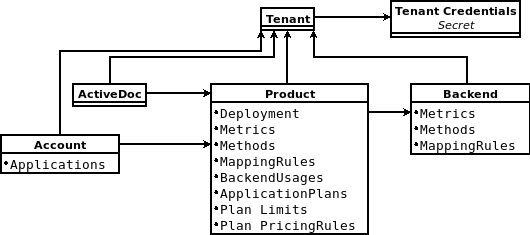
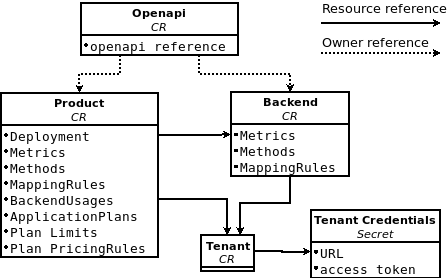
openapi CRD doc

Changed region(s): [[0.0, 0.0, 1.0, 1.0]]

diff --git a/doc/operator-application-capabilities.md b/doc/operator-application-capabilities.md
@@ -35,6 +35,12 @@ The following diagram shows available custom resource definitions and their rela
    * [Product backend usages](#product-backend-usages)
    * [Product custom resource status field](#product-custom-resource-status-field)
    * [Link your 3scale product to your 3scale tenant or provider account](#link-your-3scale-product-to-your-3scale-tenant-or-provider-account)
+* [Openapi custom resource](#openapi-custom-resource)
+   * [Features](#features)
+   * [Configmap OpenAPI spec source](#configmap-openapi-spec-source)
+   * [URL OpenAPI spec source](#url-openapi-spec-source)
+   * [OpenAPI spec source with custom public base URL](#openapi-spec-source-with-custom-public-base-url)
+   * [Link your OpenAPI spec to your 3scale tenant or provider account](#link-your-openapi-spec-to-your-3scale-tenant-or-provider-account)
 * [Tenant custom resource](#tenant-custom-resource)
    * [Preparation before deploying the new tenant](#preparation-before-deploying-the-new-tenant)
    * [Deploy the new tenant custom resource](#deploy-the-new-tenant-custom-resource)
@@ -45,6 +51,7 @@ The following diagram shows available custom resource definitions and their rela
 * [Backend CRD reference](backend-reference.md)
 * [Product CRD reference](product-reference.md)
 * [Tenant CRD reference](tenant-reference.md)
+* [Openapi CRD reference](openapi-reference.md)
 
 ## Quickstart Guide
 
@@ -629,6 +636,116 @@ oc create secret generic threescale-provider-account --from-literal=adminURL=htt
 
 The operator will gather required credentials automatically for the default 3scale tenant (provider account) if 3scale installation is found in the same namespace as the custom resource.
 
+## Openapi custom resource
+
+### Features
+
+* [OpenAPI 3.0.2](https://github.com/OAI/OpenAPI-Specification/blob/master/versions/3.0.2.md) specification
+  * Just a single top level security requirement supported. Operation level security requirements not supported.
+  * Only first `server.url` element in servers list parsed as private url. Path and operation level `servers` elements not supported.
+  * Supported security schemes: `apiKey`.
+* OpenAPI spec document can be read from:
+  * ConfigMap
+  * URL. Supported schemes are http and https
+* When the `spec.productionPublicBaseURL` or the `spec.stagingPublicBaseURL` (or both) fields are provided, implicitly the customer is asking for "APIcast self-managed" deploment mode. Otherwise, default deployment mode will be set, that is, "APIcast 3scale managed".
+* 3scale Product's `system_name` will be set out of OpenAPI Spec document `info.title`. It can be customized using the `spec.productSystemName` field.
+* Private API base URL will be read from the first `server.url` document element. It can be customized using the `spec.privateBaseURL` field.
+* By default, *strict matching* regular expressions used on mapping rule patterns read from OpenAPI spec operations. *Prefix matching* can be applied using the `spec.privateBaseURL` field.
+* Private API security can be configured using the `spec.privateAPIHostHeader` and the `spec.privateAPISecretToken` fields. Check [Openapi CR reference](openapi-reference.md) for more information.
+
+### Configmap OpenAPI spec source
+
+```yaml
+apiVersion: capabilities.3scale.net/v1beta1
+kind: Openapi
+metadata:
+  name: openapi1
+spec:
+  openapiRef:
+    configMapRef:
+      name: myopenapi
+```
+
+[Openapi CRD Reference](openapi-reference.md) for more info about fields.
+
+### URL OpenAPI spec source
+
+```yaml
+apiVersion: capabilities.3scale.net/v1beta1
+kind: Openapi
+metadata:
+  name: openapi1
+spec:
+  openapiRef:
+    url: "https://raw.githubusercontent.com/OAI/OpenAPI-Specification/master/examples/v3.0/petstore.yaml"
+```
+
+[Openapi CRD Reference](openapi-reference.md) for more info about fields.
+
+### OpenAPI spec source with custom public base URL
+
+```yaml
+apiVersion: capabilities.3scale.net/v1beta1
+kind: Openapi
+metadata:
+  name: openapi1
+spec:
+  openapiRef:
+    url: "https://raw.githubusercontent.com/OAI/OpenAPI-Specification/master/examples/v3.0/petstore.yaml"
+  productionPublicBaseURL: "https://production.my-gateway.example.com"
+  stagingPublicBaseURL: "https://staging.my-gateway.example.com"
+```
+
+[Openapi CRD Reference](openapi-reference.md) for more info about fields.
+
+### Link your OpenAPI spec to your 3scale tenant or provider account
+
+When some openapi custom resource is found by the 3scale operator,
+*LookupProviderAccount* process is started to figure out the tenant owning the resource.
+
+The process will check the following tenant credential sources. If none is found, an error is raised.
+
+* Read credentials from *providerAccountRef* resource attribute. This is a secret local reference, for instance `mytenant`
+
+```
+apiVersion: capabilities.3scale.net/v1beta1
+kind: Openapi
+metadata:
+  name: openapi1
+spec:
+  openapiRef:
+    url: "https://raw.githubusercontent.com/OAI/OpenAPI-Specification/master/examples/v3.0/petstore.yaml"
+  providerAccountRef:
+    name: mytenant
+```
+
+[Openapi CRD Reference](openapi-reference.md) for more info about fields.
+
+The `mytenant` secret must have`adminURL` and `token` fields with tenant credentials. For example:
+
+```
+apiVersion: v1
+kind: Secret
+metadata:
+  name: mytenant
+type: Opaque
+stringData:
+  adminURL: https://my3scale-admin.example.com:443
+  token: "XXXXXXXXXXXXXXXXXXXXXXXXXXXXXXXXXXXXXXXXXXX"
+```
+
+* Default `threescale-provider-account` secret
+
+For example: `adminURL=https://3scale-admin.example.com` and `token=123456`.
+
+```
+oc create secret generic threescale-provider-account --from-literal=adminURL=https://3scale-admin.example.com --from-literal=token=123456
+```
+
+* Default provider account in the same namespace 3scale deployment
+
+The operator will gather required credentials automatically for the default 3scale tenant (provider account) if 3scale installation is found in the same namespace as the custom resource.
+
 ## Tenant custom resource
 
 Tenant is also known as Provider Account.
@@ -735,9 +852,9 @@ Refer to [Tenant CRD Reference](tenant-reference.md) documentation for more info
 * Deletion of a [Product CR](product-reference.md) is not reconciled. Existing Product in 3scale will not be deleted. [THREESCALE-5539](https://issues.redhat.com/browse/THREESCALE-5539)
 * [Product CRD](product-reference.md) Single sign on (SSO) authentication for the admin and developers portal
 * [Product CRD](product-reference.md) OpenID Connect authentication [THREESCALE-5537](https://issues.redhat.com/browse/THREESCALE-5537)
+* [Product CRD](product-reference.md) Policy chaing management [THREESCALE-6235](https://issues.redhat.com/browse/THREESCALE-6235)
 * ActiveDocs CRD [THREESCALE-5531](https://issues.redhat.com/browse/THREESCALE-5531)
 * Gateway Policy CRD [THREESCALE-6101](https://issues.redhat.com/browse/THREESCALE-6101)
 * Account CRD [THREESCALE-5530](https://issues.redhat.com/browse/THREESCALE-5530)
   * 3scale Applications are managed using Account CRD
 * [Product CRD](product-reference.md) Gateway response custom code and errors [THREESCALE-5536](https://issues.redhat.com/browse/THREESCALE-5536)
-* 3scale Operator CRD holding OAS3 reference as source of truth for 3scale Product configuration [THREESCALE-4712](https://issues.redhat.com/browse/THREESCALE-4712)

diff --git a/doc/openapi-reference.md b/doc/openapi-reference.md
@@ -1,0 +1,121 @@
+# Openapi CRD Reference
+
+## Table of Contents
+
+* [OpenAPI](#openapi)
+   * [OpenapiSpec](#openapispec)
+      * [OpenAPIRef](#openapiref)
+      * [Provider Account Reference](#provider-account-reference)
+   * [OpenapiStatus](#openapistatus)
+      * [ConditionSpec](#conditionspec)
+
+Generated using [github-markdown-toc](https://github.com/ekalinin/github-markdown-toc)
+
+## OpenAPI
+
+| **Field** | **json field**| **Type** | **Info** |
+| --- | --- | --- | --- |
+| Spec | `spec` | [OpenapiSpec](#openapispec) | The specfication for the custom resource |
+| Status | `status` | [OpenapiStatus](#openapistatus) | The status for the custom resource |
+
+### OpenapiSpec
+
+| **Field** | **json field**| **Type** | **Info** | **Required** |
+| --- | --- | --- | --- | --- |
+| OpenAPIRef | `openapiRef` | object | Reference to the OpenAPI Specification. See [OpenAPIRef](#openapiref) | Yes |
+| Provider Account Reference | `providerAccountRef` | object | [Provider account credentials secret reference](#provider-account-reference) | No |
+| ProductionPublicBaseURL | `productionPublicBaseURL` | string | Custom public production URL | No |
+| StagingPublicBaseURL | `stagingPublicBaseURL` | string | Custom public staging URL | No |
+| ProductSystemName | `productSystemName` | string | Custom 3scale product system name | No |
+| PrivateBaseURL | `privateBaseURL` | string | Custom private base URL | No |
+| PrefixMatching | `prefixMatching` | boolean | Use prefix matching instead of strict matching on mapping rules derived from openapi operations | No |
+| PrivateAPIHostHeader | `privateAPIHostHeader` | string | Custom host header sent by the API gateway to the private API | No |
+| PrivateAPISecretToken | `privateAPISecretToken` | string | Custom secret token sent by the API gateway to the private API | No |
+
+#### OpenAPIRef
+
+Reference to the OpenAPI Specification
+
+| **Field** | **json field**| **Type** | **Info** | **Required** |
+| --- | --- | --- | --- | --- |
+| ConfigMapRef | `configMapRef` | [v1.LocalObjectReference](https://v1-15.docs.kubernetes.io/docs/reference/generated/kubernetes-api/v1.15/#localobjectreference-v1-core) | The configMap that contains the OpenAPI Document | No |
+| URL | `url` | string | Remote URL from where to fetch the OpenAPI Document | No |
+
+#### Provider Account Reference
+
+Provider account credentials secret referenced by a [v1.LocalObjectReference](https://v1-15.docs.kubernetes.io/docs/reference/generated/kubernetes-api/v1.15/#localobjectreference-v1-core) type object.
+
+The secret must have `adminURL` and `token` fields with tenant credentials.
+Tenant controller will fetch the secret and read the following fields:
+
+| **Field** | **Description** | **Required** |
+| --- | --- | --- |
+| *token* | Provider account access token with *Account Management API* scope and *Read & Write* permission | Yes |
+| *adminURL* | Provider account's domain URL | Yes |
+
+For example:
+
+```
+apiVersion: v1
+kind: Secret
+metadata:
+  name: mytenant
+type: Opaque
+stringData:
+  adminURL: https://my3scale-admin.example.com:443
+  token: "XXXXXXXXXXXXXXXXXXXXXXXXXXXXXXXXXXXXXXXXXXX"
+```
+
+### OpenapiStatus
+
+| **Field** | **json field**| **Type** | **Info** |
+| --- | --- | --- | --- |
+| ProviderAccountHost | `providerAccountHost` | string | 3scale account's provider URL |
+| ProductResourceName | `productResourceName` | [v1.LocalObjectReference](https://v1-15.docs.kubernetes.io/docs/reference/generated/kubernetes-api/v1.15/#localobjectreference-v1-core) | Reference to the managed 3scale product |
+| BackendResourceNames | `backendResourceNames` | array of [v1.LocalObjectReference](https://v1-15.docs.kubernetes.io/docs/reference/generated/kubernetes-api/v1.15/#localobjectreference-v1-core) | List of references to the managed 3scale backend |
+| Observed Generation | `observedGeneration` | string | helper field to see if status info is up to date with latest resource spec |
+| Conditions | `conditions` | array of [condition](#ConditionSpec)s | resource conditions |
+
+For example:
+
+```
+status:
+    backendResourceNames:
+    - name: swaggerpetstore-4686df5a-da77-4099-904a-edc3d273aa53
+    conditions:
+    - lastTransitionTime: "2020-10-23T16:59:22Z"
+      status: "False"
+      type: Failed
+    - lastTransitionTime: "2020-10-23T16:59:22Z"
+      status: "False"
+      type: Invalid
+    - lastTransitionTime: "2020-10-23T16:59:22Z"
+      status: "True"
+      type: Ready
+    observedGeneration: 1
+    productResourceName:
+      name: swaggerpetstore-4686df5a-da77-4099-904a-edc3d273aa53
+    providerAccountHost: https://3scale-admin.example.net
+```
+
+#### ConditionSpec
+
+The status object has an array of Conditions through which the Product has or has not passed.
+Each element of the Condition array has the following fields:
+
+* The *lastTransitionTime* field provides a timestamp for when the entity last transitioned from one status to another.
+* The *message* field is a human-readable message indicating details about the transition.
+* The *reason* field is a unique, one-word, CamelCase reason for the condition’s last transition.
+* The *status* field is a string, with possible values **True**, **False**, and **Unknown**.
+* The *type* field is a string with the following possible values:
+  * Invalid: Indicates that the combination of configuration in the OpenapiSpec is not supported. This is not a transient error, but indicates a state that must be fixed before progress can be made;
+  * Ready: Indicates the openapi resource has been successfully reconciled;
+  * Failed: Indicates that an error occurred during reconcilliation;
+
+| **Field** | **json field**| **Type** | **Info** |
+| --- | --- | --- | --- |
+| Type | `type` | string | Condition Type |
+| Status | `status` | string | Status: True, False, Unknown |
+| Reason | `reason` | string | Condition state reason |
+| Message | `message` | string | Condition state description |
+| LastTransitionTime | `lastTransitionTime` | timestamp | Last transition timestap |
